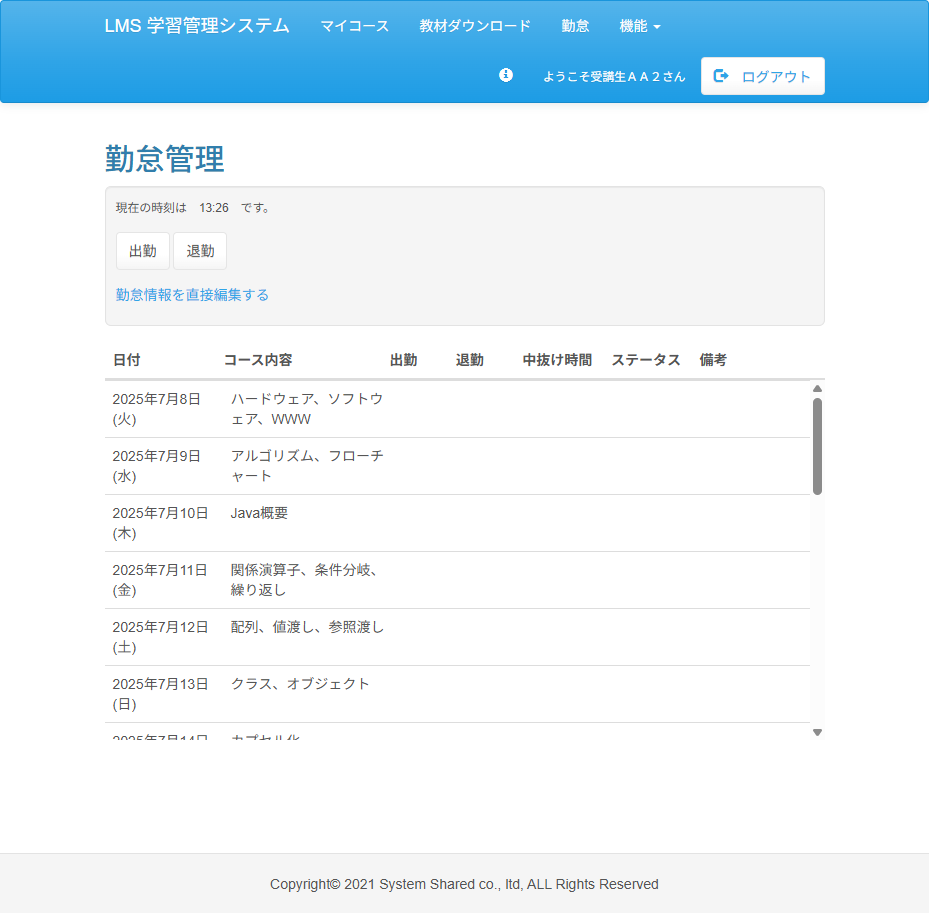
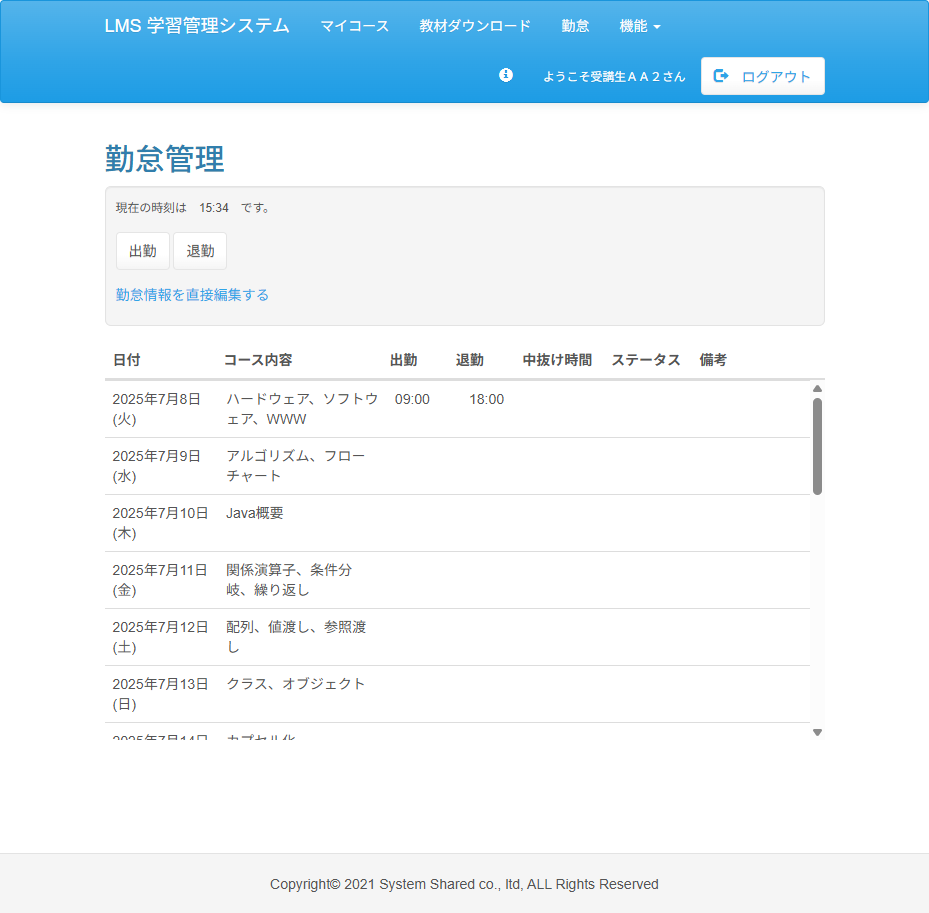
fix; Case11
勤怠登録する対象の日付を変更

diff --git a/test_code_creation_koyamamizuki/src/test/java/jp/co/sss/lms/ct/f04_attendance/Case11.java b/test_code_creation_koyamamizuki/src/test/java/jp/co/sss/lms/ct/f04_attendance/Case11.java
@@ -10,9 +10,15 @@ import org.junit.jupiter.api.MethodOrderer.OrderAnnotation;
 import org.junit.jupiter.api.Order;
 import org.junit.jupiter.api.Test;
 import org.junit.jupiter.api.TestMethodOrder;
+import org.openqa.selenium.Alert;
 import org.openqa.selenium.By;
 import org.openqa.selenium.WebElement;
+import org.openqa.selenium.support.ui.ExpectedConditions;
 import org.openqa.selenium.support.ui.Select;
+import org.openqa.selenium.support.ui.WebDriverWait;
+import java.time.Duration;
+
+import jp.co.sss.lms.ct.util.WebDriverUtils;
 
 /**
  * 結合テスト 勤怠管理機能
@@ -71,9 +77,13 @@ public class Case11 {
 	@DisplayName("テスト03 上部メニューの「勤怠」リンクから勤怠管理画面に遷移")
 	void test03() {
 		webDriver.findElement(By.linkText("勤怠")).click();
-
-		visibilityTimeout(By.name("punchIn"), 5);
-
+		// アラートでOK選択
+		WebDriverWait wait = new WebDriverWait(webDriver, Duration.ofSeconds(5));
+		Alert alert = wait.until(ExpectedConditions.alertIsPresent());
+		alert.accept();
+		// 待機処理
+		visibilityTimeout(By.cssSelector("h2"), 5);
+		assertEquals("勤怠情報変更｜LMS", webDriver.getTitle());
 		getEvidence(new Object() {
 		});
 
@@ -97,19 +107,30 @@ public class Case11 {
 	@DisplayName("テスト05 すべての研修日程の勤怠情報を正しく更新し勤怠管理画面に遷移")
 	void test05() {
 		// 空文字””をプルダウン選択
-		WebElement selectElement = webDriver.findElement(By.name("attendanceList[0].punchIn"));
+		WebElement selectElement = webDriver.findElement(By.name("attendanceList[1].trainingStartTimeHour"));
 		Select select = new Select(selectElement);
-		select.selectByValue("09:00");
-		
-		selectElement = webDriver.findElement(By.name("attendanceList[0].punchOut"));
+		// 出勤時間を9:00にプルダウン選択
+		select.selectByValue("9");
+		 selectElement = webDriver.findElement(By.name("attendanceList[1].trainingStartTimeMinute"));
+		 select = new Select(selectElement);
+		select.selectByValue("0");
+		// 退勤時間を18:00にプルダウン選択
+		 
+		selectElement = webDriver.findElement(By.name("attendanceList[1].trainingEndTimeHour"));
 		select = new Select(selectElement);
-		select.selectByValue("18:00");
-
-		
+		select.selectByValue("18");
+		 selectElement = webDriver.findElement(By.name("attendanceList[1].trainingEndTimeMinute"));
+		 select = new Select(selectElement);
+		 select.selectByValue("0");
+		// 更新ボタンをクリック
 		webDriver.findElement(By.cssSelector("input[type='submit']")).click();
-
+		// ダイアログでOK押す
+		WebDriverWait wait = new WebDriverWait(webDriver, Duration.ofSeconds(5));
+		Alert alert = wait.until(ExpectedConditions.alertIsPresent());
+		alert.accept();
+		
 		visibilityTimeout(By.cssSelector("h2"), 5);
-		assertEquals("勤怠管理 | LMS", webDriver.getTitle());
+		assertEquals("勤怠情報変更｜LMS", webDriver.getTitle());
 
 		getEvidence(new Object() {
 		});
